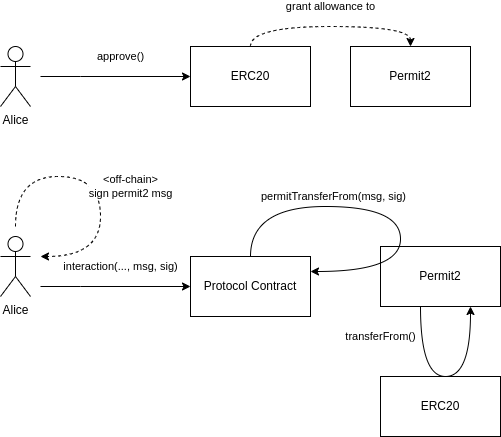
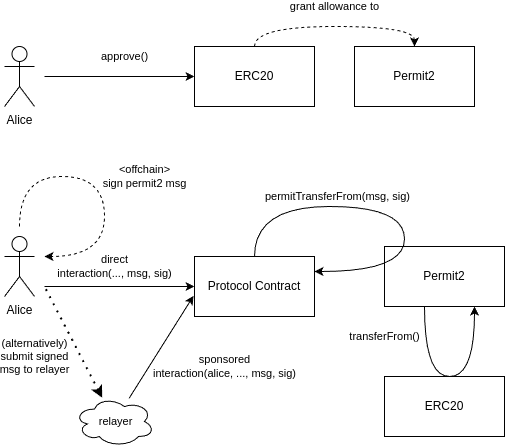
add batch transfers to permit2 and update diagram

diff --git a/patterns/permit2/README.md b/patterns/permit2/README.md
@@ -45,18 +45,20 @@ Finally, let's dive into the Permit2 approach, which echoes elements from both p
 
 1. Alice calls `approve()` on an ERC20 to grant an infinite allowance to the canonical Permit2 contract.
 2. Alice signs an off-chain "permit2" message that signals that the protocol contract is allowed to *transfer* tokens on her behalf.
-3. Alice calls an interaction function on the protocol contract, passing in the signed permit2 message as a parameter.
+3. The next step will vary depending on UX choices:
+    1. In the simple case, Alice can just submit a transaction herself, including the signed permit2 message as part of an interaction with the protocol contract.
+    2. If the protocol contract allows it, Alice can transmit her signed permit2 message to a relayer service that will submit interaction the transaction on Alice's behalf.
 4. The protocol contract calls `permitTransferFrom()` on the Permit2 contract, which in turn uses its allowance (granted in 1.) to call `transferFrom()` on the ERC20 contract, moving the tokens held by Alice.
 
-It might seem like a regression to require the user to grant an explicit allowance first. But rather than granting it to the protocol directly, the user will instead grant it to the canonical Permit2 contract. This means that if the user has already done this before, say to interact with another protocol that integrated Permit2, every other protocol can skip that step! 🎉
+It might seem like a regression to require the user to grant an explicit allowance first. But rather than granting it to the protocol directly, the user will instead grant it to the canonical Permit2 contract. This means that if the user has already done this before, say to interact with another protocol that integrated Permit2, *every other protocol can skip that step*.
 
 Instead of directly calling `transferFrom()` on the ERC20 token to perform a transfer, a protocol will call `permitTransferFrom()` on the canonical Permit2 contract. Permit2 sits between the protocol and the ERC20 token, tracking and validating permit2 messages, then ultimately using its allowance to perform the `transferFrom()` call directly on the ERC20. This indirection is what allows Permit2 to extend EIP-2612-like benefits to every existing ERC20 token! 🎉
 
-Also, like EIP-2612 permit messages, permit2 messages expire to limit the the attack window of an exploit. 
+Also, like EIP-2612 permit messages, permit2 messages expire to limit the the attack window of an exploit. It's much also easier to secure the small Permit2 contract than the contracts of individual defi protocols, so having an infinite allowance there is less of a concern.
 
 ## Integrating Permit2
 
-For a frontend integrating Permit2, it will need to collect a user signature that will be passed into the transaction. The Permit2 message struct (`PermitTransferFrom`) signed by these signatures must comply with the [EIP-712](https://eips.ethereum.org/EIPS/eip-712) standard (for which [we have a general guide](../eip712-signed-messages/)), using the Permit2 domain and type hashes defined [here](https://github.com/Uniswap/permit2/blob/main/src/EIP712.sol) and [here](https://github.com/Uniswap/permit2/blob/main/src/libraries/PermitHash.sol). Be aware that the `spender` field for the EIP-712 Permit2 object needs to be set to the contract address that will be consuming it.
+For a frontend integrating Permit2, it will need to collect a user signature that will be passed into the transaction. The Permit2 message struct (`PermitTransferFrom`) signed by these signatures must comply with the [EIP-712](https://eips.ethereum.org/EIPS/eip-712) standard (for which [we have a general guide](../eip712-signed-messages/)), using the Permit2 domain and type hashes defined [here](https://github.com/Uniswap/permit2/blob/main/src/EIP712.sol) and [here](https://github.com/Uniswap/permit2/blob/main/src/libraries/PermitHash.sol). Be aware that the `spender` field for the EIP-712 Permit2 object needs to be set to the contract address that will be consuming it and directly calling the Permit2 contract functions.
 
 The smart contract integration is actually fairly easy! Any function that needs to move tokens held by a user just needs to accept any unknown permit message details and the corresponding EIP-712 user signature. To actually move the tokens, we will call `permitTransferFrom()` on the canonical Permit2 contract. That function is declared as:
 
@@ -76,23 +78,40 @@ The parameters for this function are:
         - `amount` - *Maximum* amount that can be transferred when consuming this permit.
     - `nonce` - A unique number, chosen by our app, to identify this permit. Once a permit is consumed, any other permit using that nonce will be invalid.
     - `deadline` - The latest possible block timestamp for when this permit is valid.
-- `transferDetails` - A struct containing the transfer recipient and transfer amount, which can be less than the amount the user signed for.
+- `transferDetails` - A struct detailing where permitted token should be transfered to and how much.
+    - `to` - Who receives the permitted token.
+    - `requestedAmount`: How much should be transferred. This can be less than the amount that the user signed in `permit.permitted`.
 -  `owner` - Who signed the permit and also holds the tokens. Often, in simple use-cases where the caller and the user are one and the same, this should be set to the caller (`msg.sender`). But in more exotic integrations, [you may need more sophisticated checks](https://docs.uniswap.org/contracts/permit2/reference/signature-transfer#security-considerations).
 - `signature` - The corresponding EIP-712 signature for the permit2 message, signed by `owner`. If the recovered address from signature verification does not match `owner`, the call will fail.
 
 > 🛈 Note that the `PermitTransferFrom` struct does not include the `spender` field found in the [EIP-712 typehash definition for the permit message](https://github.com/Uniswap/permit2/blob/main/src/libraries/PermitHash.sol#L21). It will be populated with our contract's address (the direct caller of `permitTransferFrom()`) during processing. This is why the `spender` field of the EIP-712 object the user signs must be the address of this contract.
 
+
+### Batch Transfers
+
+If you need to transfer multiple tokens, the good news is Permit2 also supports batch transfers via an overloaded implementation of `permitTransferFrom()`:
+
+```solidity
+function permitTransferFrom(
+        PermitBatchTransferFrom memory permit,
+        SignatureTransferDetails[] calldata transferDetails,
+        address owner,
+        bytes calldata signature
+    ) external;
+```
+
+ Instead of having the user sign a `PermitTransferFrom` message struct, you'll need the user to sign a `PermitBatchTransferFrom` message struct, inside which the `permitted` field is now an *array* of `TokenPermissions` structs instead of a single item. This version of `permitTransferFrom()` also accepts an array of `SignatureTransferDetails`, meaning each token permission can be directed towards different recipients.
+
 ### Advanced Integrations
 This guide covers the basic functionality offered by Permit2 but there's more you can do with it!
-- [Custom Witness Data](https://docs.uniswap.org/contracts/permit2/reference/signature-transfer#single-permitwitnesstransferfrom) - You can append custom data to the permit2 message, which means the Permit2 signature validation will extend to that data as well.
-- [Batch Transfers](https://docs.uniswap.org/contracts/permit2/reference/signature-transfer#batched-permittransferfrom) - A batched permit2 message for performing multiple transfers, secured by a single signature.
+- [Custom Witness Data](https://docs.uniswap.org/contracts/permit2/reference/signature-transfer#single-permitwitnesstransferfrom) - You can append custom data to the permit2 message, which means the Permit2 signature validation will extend to that data as well. Extremely useful to add validation to the rest of the interaction when employing the relayer approach.
 - [Smart Nonces](https://docs.uniswap.org/contracts/permit2/reference/signature-transfer#nonce-schema) - Under the hood, nonces are actually written as bit fields in an storage slot indexed by the upper 248 bits. You can save a signficant amount of gas by carefully choosing nonce values that reuse storage slots.
 - [Callback signatures](https://github.com/Uniswap/permit2/blob/main/src/libraries/SignatureVerification.sol#L43) - Permit2 supports [EIP-1271](https://eips.ethereum.org/EIPS/eip-1271) callback signatures, which allow smart contracts to also sign permit2 messages.
 - [Permit2 Allowances](https://docs.uniswap.org/contracts/permit2/reference/allowance-transfer) - For protocols that need more flexibility, Permit2 supports a more conventional allowance model that gets the added benefit of expiration times. 
 
 ## The Demo
 
-The provided [example code](./Permit2Vault.sol) is a simple vault that users can deposit ERC20 tokens into using Permit2, which they can later withdraw. Because it's multi-user, it needs to initiate the transfer in order to reliably credit which account owns which balance. Normally this requires granting an allowance to the vault contract and then having the vault perform the `transferFrom()` on the token itself, but Permit2 allows us to skip that hassle!
+The provided [example code](./Permit2Vault.sol) is a simple vault that users can deposit ERC20 tokens into using Permit2, which they can later withdraw. Because it's multi-user, it needs to initiate the transfer in order to reliably credit which account owns which balance. Normally this requires granting an allowance to the vault contract and then having the vault perform the `transferFrom()` on the token itself, but Permit2 allows us to skip that hassle! The demo provides examples for both single and batch transfers.
 
 The [tests](../../test/Permit2Vault.t.sol) deploy a local, bytecode fork of the mainnet Permit2 contract  to test an instance of the vault against. The EIP-712 hashing and signature generation is written in solidity/foundry as well, but should normally be performed off-chain at the frontend/backend level in your language of choice.
 
